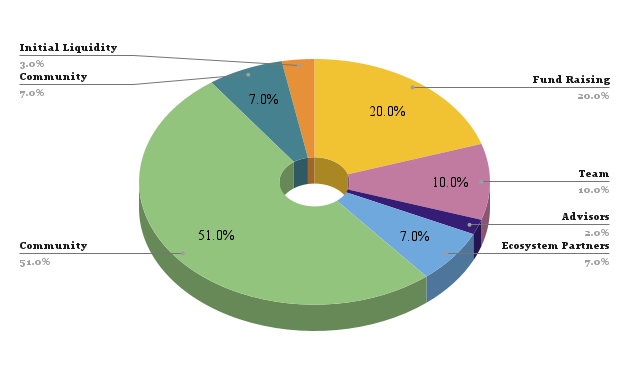
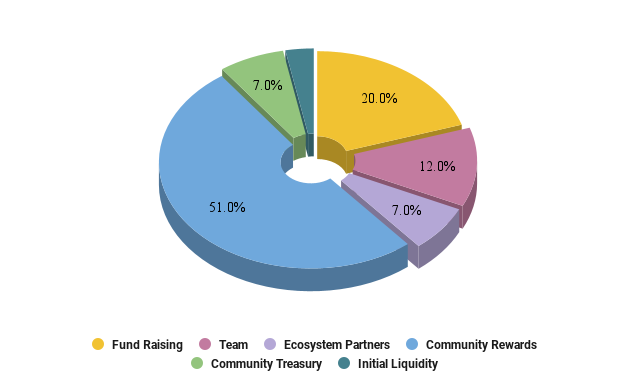
macro-allocations

diff --git a/docs/tokenomics/index.md b/docs/tokenomics/index.md
@@ -74,14 +74,13 @@ $GWIT Total Supply is 1,000,000,000 (1 Billion Tokens). Allocation is shown in t
 | Seed Round         |    100,000,000    |    10.00%   |
 | Strategic          |     80,000,000    |    8.00%    |
 | Pre-Public         |     20,000,000    |    2.00%    |
-| Team               |    100,000,000    |    10.00%   |
+| Founders           |    100,000,000    |    10.00%   |
 | Advisors           |     20,000,000    |    2.00%    |
 | Ecosystem Partners |     70,000,000    |    7.00%    |
 | Airdrop            |     10,000,000    |    1.00%    |
-| Farming            |    100,000,000    |    10.00%   |
-| Game Rewards       |    400,000,000    |    40.00%   |
+| Community Rewards  |    500,000,000    |    50.00%   |
 | Community Treasury |     70,000,000    |    7.00%    |
-| Dex Liquidity      |     30,000,000    |    3.00%    |
+| Initital Liquidity |     30,000,000    |    3.00%    |
 |      **Total**     | **1,000,000,000** | **100.00%** |
 
 Below is a chart of the Macro-Allocation of $GWIT token.
@@ -95,7 +94,23 @@ This is composed of the **Seed**, **Strategic** and **Pre-Public** (Community) r
 
 **Team**
 
+This represents the **Founders** and **Advisors** share in the Rooster Wars project and acts as an incentive to the team to make the project sustainable and better throughout time.
 
+**Ecosystem Partners**
+
+This represents other NFT and DeFi projects that Rooster Wars has partnered with for added utility and NFT interoperability
+
+**Community Rewards**
+
+This encompasses $GWIT distributed as **Game** and **DeFi** (Staking) **rewards** to the Rooster Wars community
+
+**Community Treasury**
+
+The purpose of the treasury is to allocate **revenue shares** for certain NFT holders of Rooster Wars and to support for the project's **Operating Expenses**
+
+**Initial Liquidity**
+
+Is the liquidity provided by Rooster Wars to list $GWIT token in an exchange
 
 <!-- TOKENOMICS REVAMP: May 3,2022
 ## **Token Sale Rounds**
